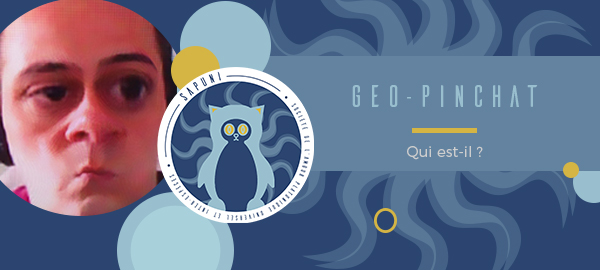
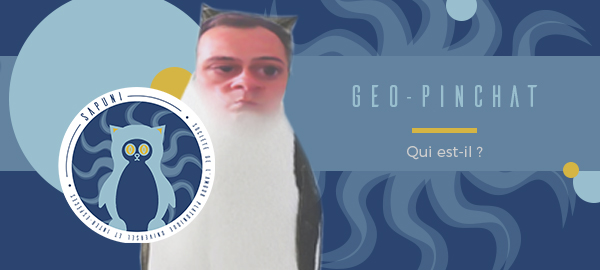
last update

diff --git a/Articles.html b/Articles.html
@@ -60,7 +60,7 @@
       <li class=article02>
         <section class="banner-title2">
           <h1 class="bottom02">Mike Hughes : Prophète des temps modernes.</h1>
-          <img src= img/banner-article-2 alt="banner-article1" class="banner-image02"/>
+          <img src= img/banner-article-2.jpg alt="banner-article1" class="banner-image02"/>
         </section>
         <p>
           Un éminent membre de notre communauté a trouvé la mort le 22 Fevrier dans sa quète de vérité. 
@@ -72,7 +72,7 @@
       <li class="article03">
         <section class="banner-title3">
           <h1 class="bottom03">Rencontre avec notre divinité : Geo-Pinchat, le Grand. </h1>
-          <img src="img/img/banner-article-3" alt="banner-article3" class="banner-image03"/>
+          <img src="img/banner-article-3.jpg" alt="banner-article3" class="banner-image03"/>
         </section>
         <p>
         Pourquoi SAPUNI se repose tant sur notre Geo-Pinchat ? Que peut-il nous apporter ? D'où vient-il ? Pourquoi la vie de Gérard Bouchard ainsi que celle de tous nos fidèles a-t-elle basculée depuis la mythique rencontre ?

diff --git a/Style.css b/Style.css
@@ -463,29 +463,28 @@ body *{
 }
 
 .blockIndex{
-  padding: 0;
+  
   display: flex;
   flex-direction: column;
   align-items: center;
   list-style: none;
-  
-  
-  
-  
 }
 
 .listIndex{
   list-style: none;
   width: 80%;
   text-align: center;
-  margin: auto;
- 
-                    
-                    
+  margin: auto;                
 }
 
 /*------------- (First n second title/paragraph on Index)-----------*/
 
+/*------------- (BANNER CHATPINGOUIN)-----------*/
+.chatpingouin{
+  width: 100%;
+}
+
+/*------------- (BANNER CHATPINGOUIN)-----------*/
 
 /*------------- (order selection button on articles page)-----------*/
 .selectbutton{
@@ -496,6 +495,8 @@ body *{
 }
 
 /*------------- (order selection button on articles page)-----------*/
+
+
 
 /*------------- (Title on Banner articles page)-----------*/ 
 ul.banner-articles{

diff --git a/Index.html b/Index.html
@@ -38,8 +38,8 @@
 <body>
 
   <!-- carousel -->
-  <div class="">
-    <img src="img/chat-pingouin.jpg" alt="scientologie" />
+  <div >
+    <img class="chatpingouin" src="img/banner-pinchat (1).jpg" alt="scientologie" />
   </div>
   <section class="papaBlockIndex">
     <ul calss="blockIndex">
